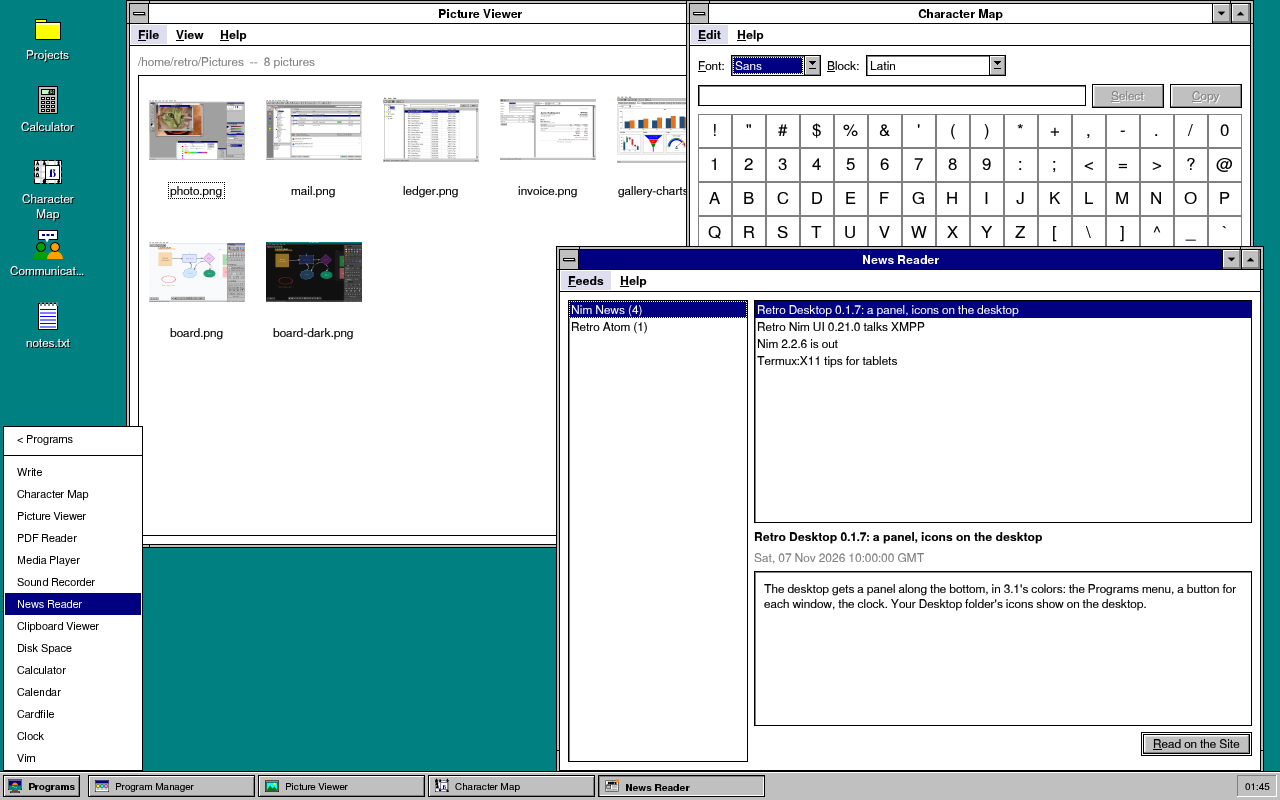
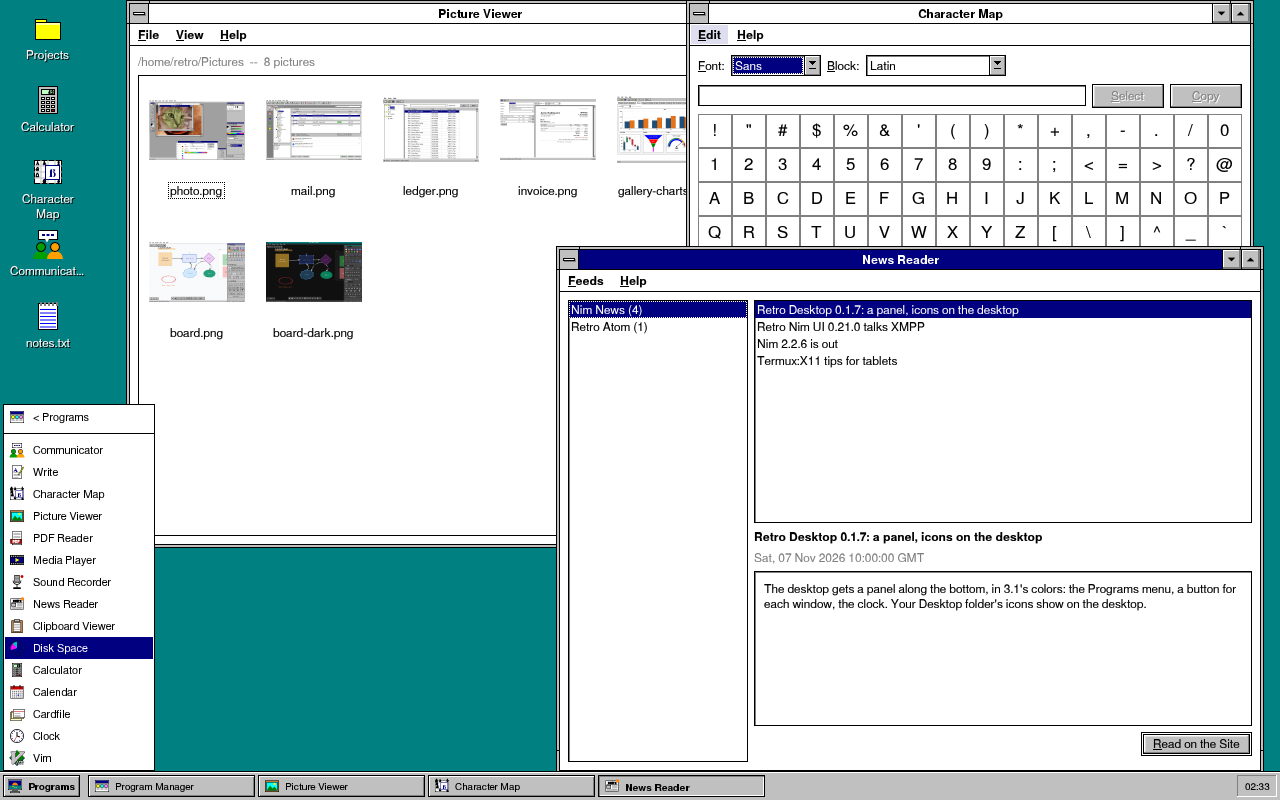
Retro Desktop 0.1.8: pictures in the panel's menus, the desktop follows the screen
- Programs: each group with its picture and an arrow at the right; each
  program with its own icon; Run, Help, Control Panel, Task List and Exit
  with theirs. wm menus take a picture per item (menuItem(..., icon),
  menuIconSize).
- The screen's size comes from the root window's ConfigureNotify: Termux:X11
  starting at one size and taking the tablet's a moment later no longer
  leaves the desktop and the panel at the first size.
- The package's Communicator is Retro Nim UI 0.21.1's.

Changed region(s): [[0.0, 0.5, 0.125, 0.9688], [0.4375, 0.3125, 0.5, 0.375], [0.0938, 0.0312, 0.1562, 0.0625]]

diff --git a/README.md b/README.md
@@ -25,9 +25,9 @@ one program of about 5 MB, nothing to set up.
   tablet turns. The programs open when the desktop ended -- you exited, or
   Android stopped Termux -- open again where they were the next time.
 - **The panel**, along the bottom: Windows 95's idea in 3.1's colors --
-  **Programs** with every group of Program Manager as a menu (and Run,
-  Help, Control Panel, Task List, Exit), a button for each window, the
-  battery and the clock. Control Panel > Windows turns it off.
+  **Programs** with every group of Program Manager as a menu, each program
+  with its icon (and Run, Help, Control Panel, Task List, Exit), a button
+  for each window, the battery and the clock. Control Panel > Windows turns it off.
 - **Icons on the desktop:** what is in your Desktop folder -- folders,
   files, programs -- where you drag them; Program Manager's File > Put on
   the Desktop makes a program's icon.
@@ -150,7 +150,7 @@ one program of about 5 MB, nothing to set up.
    ```sh
    pkg install x11-repo
    pkg install termux-x11-nightly libx11
-   apt install ./retro-desktop_0.1.7_aarch64.deb     # the .deb from the releases
+   apt install ./retro-desktop_0.1.8_aarch64.deb     # the .deb from the releases
    retro-desktop
    ```
 
@@ -264,7 +264,7 @@ clones it.
 
 GitHub builds the package on every push and pull request
 (`.github/workflows/deb.yml`), and puts it on the release when a version
-tag is pushed (`git tag v0.1.7 && git push origin v0.1.7`).
+tag is pushed (`git tag v0.1.8 && git push origin v0.1.8`).
 
 ## How it works
 

diff --git a/CHANGELOG.md b/CHANGELOG.md
@@ -1,5 +1,22 @@
 # Changelog
 
+## 0.1.8
+
+- **Pictures in the panel's menus**: Programs shows each group with its
+  picture and an arrow at the right; a group's menu shows each program's
+  own icon (or the desktop's picture for it); Run, Help, Control Panel,
+  Task List and Exit have theirs. The window manager's menus take a
+  picture per item (`menuItem(..., icon)`, `menuIconSize`).
+- **The desktop follows the screen's size**: Termux:X11 can start at one
+  size and take the tablet's own a moment later; the desktop and the panel
+  stayed at the first size. The window manager now reads the size from the
+  root window's ConfigureNotify, not from Xlib's DisplayWidth, which keeps
+  the size the connection began with.
+- The package's Communicator is Retro Nim UI 0.21.1's: a room's window
+  shows the talk and who is in the room side by side, with the message box;
+  the state chooser and the Send a file and Info buttons no longer slip off
+  the side.
+
 ## 0.1.7
 
 - **The panel**: a bar along the bottom -- Windows 95's idea, in 3.1's

diff --git a/AGENTS.md b/AGENTS.md
@@ -90,6 +90,13 @@ alike.
    windows that may be gone inside `trapErrors`. Only a program's own
    unmapping (in its frame, or ICCCM's synthetic one to the root) lets
    go of its window.
+   The screen's size is `wm.screenSize()` (the root window's, from its
+   ConfigureNotify), never Xlib's `XDisplayWidth` in the desktop's own
+   connection: that one keeps the size the connection began with, and
+   Termux:X11 changes it after the start.
+   A closure made in a loop (a menu item's action) sees the loop's last
+   values: make each one in a proc of its own (`startItem`, `openGroup` in
+   panel.nim).
    The desktop is under every window, so whatever has to show over them --
    its menu, the icons' menu, the control menu -- is the manager's
    `showMenu` (a window of its own, the pointer and the keyboard grabbed),
